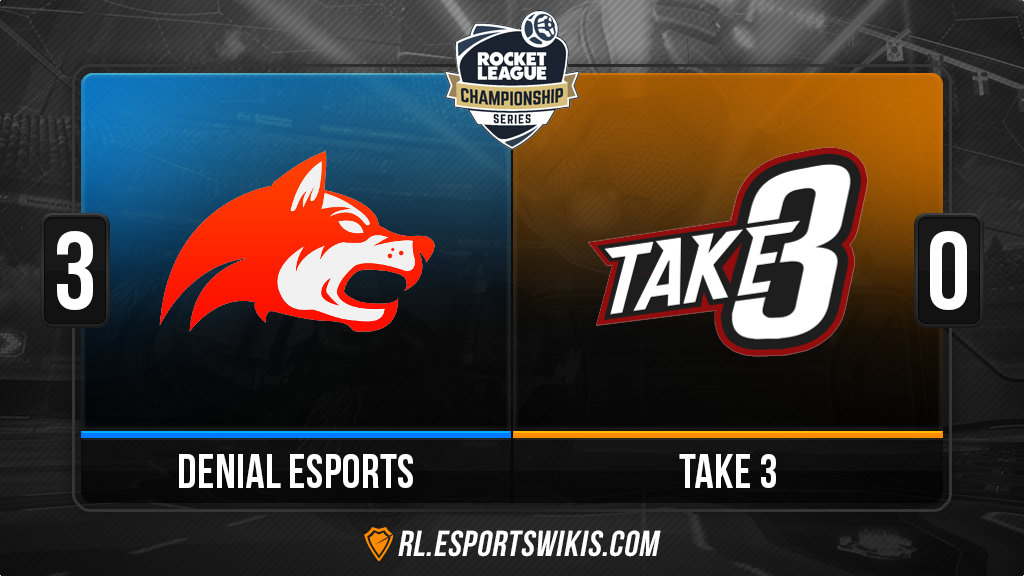
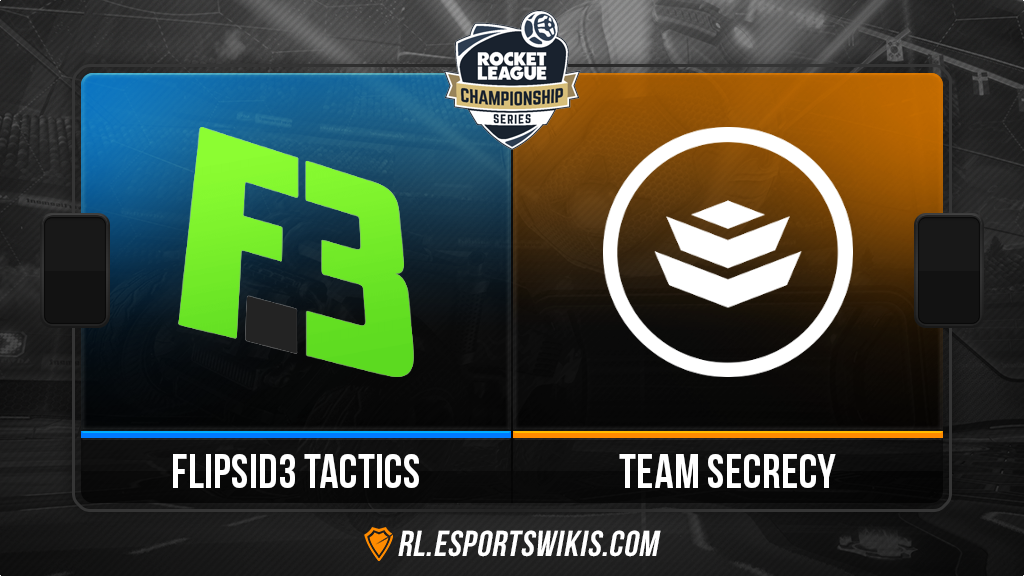
Added EU Support

diff --git a/src/match.py b/src/match.py
@@ -15,19 +15,6 @@ score2 = scores.setdefault(sys.argv[4])
 team2 = teams.setdefault(sys.argv[5].lower())
 
 if tourney is not None and team1 is not None and team2 is not None and score1 is not None and score2 is not None:
-	dir = os.path.dirname(os.path.realpath(__file__))
-	image = Image.open(dir+"/../imgs/bg.png")
-
-	logo = Image.open(dir+"/../imgs/tourney-logos/"+tourney+".png").convert("RGBA")
-	logo.thumbnail((140,140))
-
-	team1_nameplate = Image.open(dir+"/../imgs/team-nameplates/"+team1+".png")
-	team1_logo = Image.open(dir+"/../imgs/team-logos/"+team1+".png")
-	team1_score = Image.open(dir+"/../imgs/score-numbers/"+score1+".png")
-
-	team2_nameplate = Image.open(dir+"/../imgs/team-nameplates/"+team2+".png")
-	team2_logo = Image.open(dir+"/../imgs/team-logos/"+team2+".png")
-	team2_score = Image.open(dir+"/../imgs/score-numbers/"+score2+".png")
 
 	tourney_width = (1024 - 140) / 2
 	tourney_height = 10
@@ -40,15 +27,28 @@ if tourney is not None and team1 is not None and team2 is not None and score1 is
 	score_width = (1024 - 62) / 2
 	score_height = 217
 
+	dir = os.path.dirname(os.path.realpath(__file__))
+	image = Image.open(dir+"/../imgs/bg.png")
+	
+	logo = Image.open(dir+"/../imgs/tourney-logos/"+tourney+".png").convert("RGBA")
+	logo.thumbnail((140,140))
 	image.paste(logo, (tourney_width, tourney_height), mask=logo) 
 
+	team1_nameplate = Image.open(dir+"/../imgs/team-nameplates/"+team1+".png")
+	team2_nameplate = Image.open(dir+"/../imgs/team-nameplates/"+team2+".png")
 	image.paste(team1_nameplate, (center_width-216, nameplate_height), mask=team1_nameplate) 
-	image.paste(team1_logo, (center_width-216, logo_height), mask=team1_logo) 
-	image.paste(team1_score, (score_width-437, score_height), mask=team1_score) 
-
 	image.paste(team2_nameplate, (center_width+216, nameplate_height), mask=team2_nameplate) 
+	
+	team1_logo = Image.open(dir+"/../imgs/team-logos/"+team1+".png")
+	team2_logo = Image.open(dir+"/../imgs/team-logos/"+team2+".png")
+	image.paste(team1_logo, (center_width-216, logo_height), mask=team1_logo) 
 	image.paste(team2_logo, (center_width+216, logo_height), mask=team2_logo) 
-	image.paste(team2_score, (score_width+437, score_height), mask=team2_score) 
+	
+	if score1 != "0" and score2 != "0":
+		team1_score = Image.open(dir+"/../imgs/score-numbers/"+score1+".png")
+		team2_score = Image.open(dir+"/../imgs/score-numbers/"+score2+".png")
+		image.paste(team1_score, (score_width-437, score_height), mask=team1_score) 
+		image.paste(team2_score, (score_width+437, score_height), mask=team2_score) 
 
 	image.save(dir+"/../output.png","PNG")
 else:
